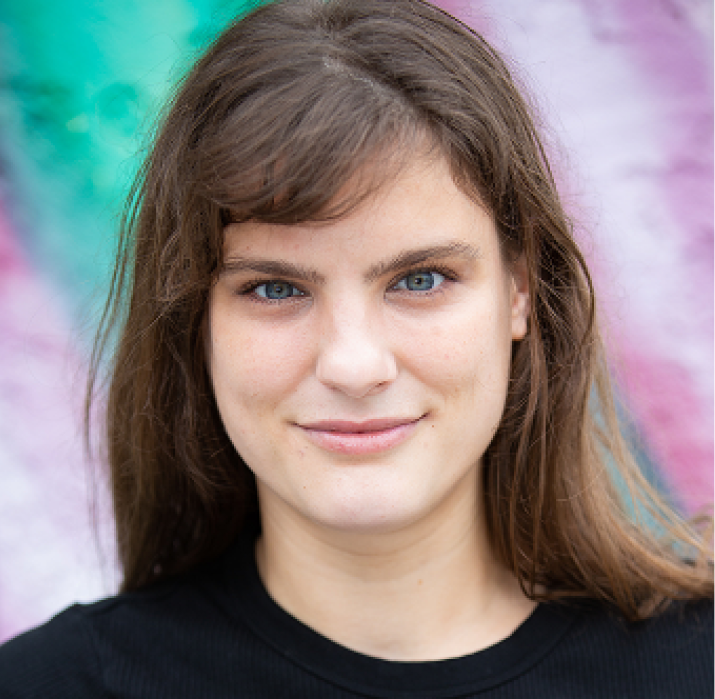
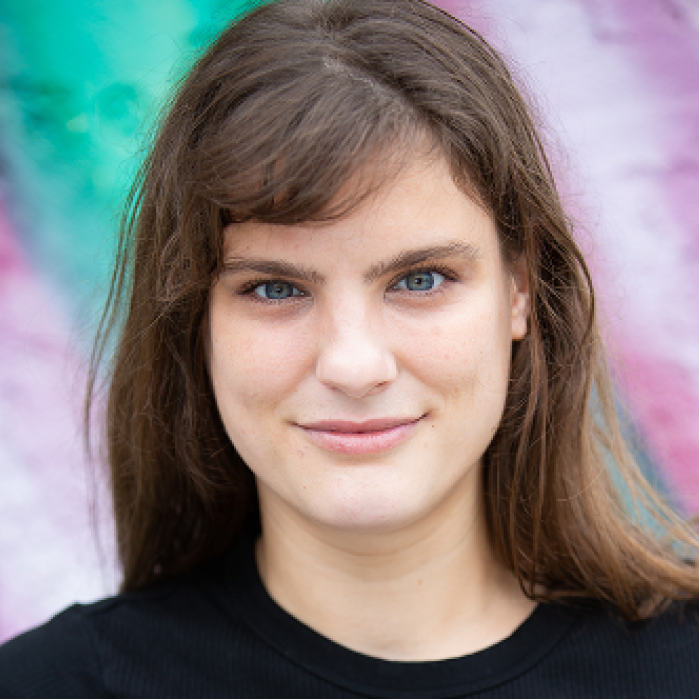
Minor Fixes
Coyl Description Spacing
About photos corrected

diff --git a/style.css b/style.css
@@ -146,6 +146,7 @@
 
 .element-index .headline-subhead-2 {
   display: flex;
+  padding-top: 10px;
   width: 315px;
   flex-direction: column;
   align-items: flex-start;
@@ -156,6 +157,7 @@
 .element-index .project {
   position: relative;
   width: 315px;
+  margin-top: 15px;
   font-family: var(--h2-font-family);
   font-weight: var(--h2-font-weight);
   margin-bottom: var(--h2-margin-bottom);
@@ -561,12 +563,12 @@ a:hover {
   align-items: flex-start;
   position: relative;
   flex: 0 0 auto;
+  padding-top: 60px;
   padding-bottom: 60px;
 }
 
 .element-about .image {
   position: relative;
-  padding-top: 60px;
   padding-bottom: 20px;
   width: 315px;
   height: 315px;
@@ -737,8 +739,8 @@ a:hover {
 
 .element-about .image-2 {
   position: relative;
-  width: 357.19px;
-  height: 349.5px;
+  width: 350px;
+  height: 350px;
   gap: 60px;
   aspect-ratio: 1.02;
   object-fit: cover;
@@ -3293,9 +3295,7 @@ a:focus {
 .element-coyl .text-wrapper-3 {
   position: relative;
   width: 315px;
-  height: 30px;
   font-family: var(--mh1-font-family);
-  margin-top: 0px;
   margin-bottom: var(--mh1-margin-bottom);
   font-weight: var(--mh1-font-weight);
   color: var(--x-0-0acba);
@@ -3304,6 +3304,7 @@ a:focus {
   line-height: var(--mh1-line-height);
   font-style: var(--mh1-font-style);
 }
+
 
 .element-coyl .text-wrapper-4 {
   position: relative;
@@ -3742,7 +3743,6 @@ a:focus {
 .element-coyl .text-wrapper-3 {
   position: relative;
   width: 315px;
-  height: 30px;
   font-family: var(--mh1-font-family);
   margin-bottom: var(--mh1-margin-bottom);
   font-weight: var(--mh1-font-weight);
